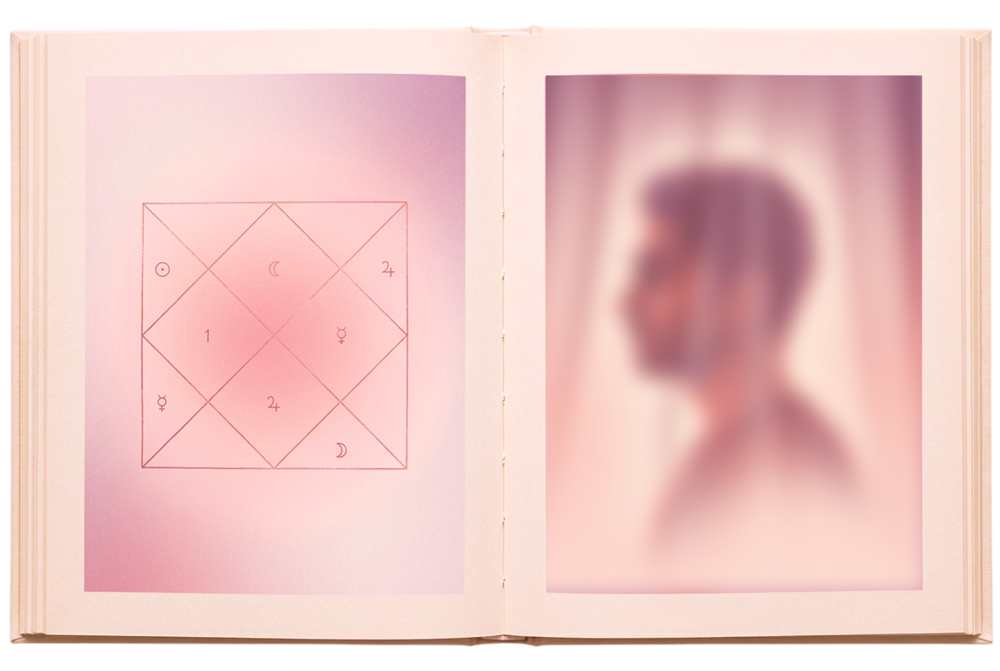
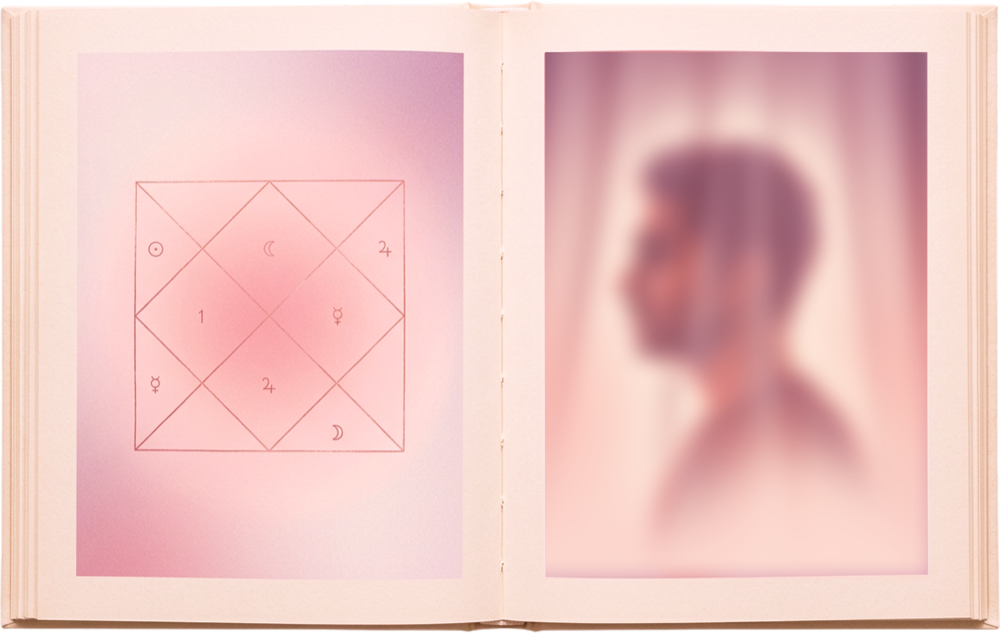
Kundli Milan naming, Figma art for marriage, and a ground under the page block
The marriage report is now Kundli Milan Marriage Compatibility - the name
people search for, and the one its own cover carries. Marriage Report said
nothing the subtitle did not already say.

Art off the Figma boards:
- cover-marriage.jpg   (3466:13910) couple under the mandap
- spread-marriage.png  (3459:22391) the open book
- bg-marriage.jpg      (3457:6843)  the hero still
- spread-partner.png   re-exported with its background keyed out

Marriage takes a painted still for its hero rather than the curtain clip,
which is a couple that is not this report. Heads sit well clear of the book.

The hero is 144px of padding above the book instead of 104. At the shorter
height the couple were packed against it with nothing over their heads and
the arch they stand in had no room to be an arch. The extra 40 is all air,
which is the difference between a crop and a frame.

Two fixes off her screenshots:

The spreads were exported with an opaque white card behind them. Flood
filled from the border and trimmed to the book, so the open book now sits
on the page rather than on a rectangle.

The page block of the shut book had lost its paper. The art is painted onto
the leaf inline, which replaces the gradient in the rule outright, and once
the exports carried transparent margins that left the block with no ground
at all - a pale cut out slab standing beside the cover. Colour is a separate
property, so background-color survives the override and the page stays
[…]

diff --git a/styles.css b/styles.css
@@ -669,6 +669,13 @@ hr.thin{border:0;border-top:1px solid var(--g200);margin:12px 0}
   border-radius:1px 3px 3px 1px;overflow:hidden;
   background:linear-gradient(90deg,var(--pap-lt) 0,var(--pap) 52%,var(--pap-dk) 84%,var(--pap) 100%);
   background-size:200% 100%;background-position:right center;background-repeat:no-repeat;
+  /* Paper under whatever is printed on it. The spread art is painted onto this
+     element inline, which replaces the gradient above outright — and since the
+     exports were keyed down to the book and now carry transparent margins, that
+     left the page block with no ground at all: a pale cut-out slab stood beside
+     the cover instead of this book's own pages. The colour is a separate
+     property, so it survives the override and the page stays opaque. */
+  background-color:var(--pap);
   box-shadow:0 9px 16px -8px rgba(74,24,8,.4)}
 .of3-leaf::after{content:'';position:absolute;right:0;top:0;bottom:0;width:10px;
   background:linear-gradient(90deg,rgba(255,249,252,0),var(--pap-dk))}
@@ -731,15 +738,17 @@ hr.thin{border:0;border-top:1px solid var(--g200);margin:12px 0}
 }
 .of3-pts{margin:14px 6px 0}
 .of3-pts .pts{gap:10px}
-/* Bigger text than the generic list, so a bigger glyph, and brand-coloured
-   rather than grey: on the sell card these four lines are the offer, and the
-   card has no other orange in it above the price. The remainder stays a
-   dotted-underline line of the same text rather than a fifth bullet, so the
-   list ends on an invitation instead of another claim. */
+/* Bigger text than the generic list, so a bigger glyph. The glyph takes the
+   text's own colour and nothing else: orange made four small drawings compete
+   with the Buy Now button for the only warm note on the card, and a line of
+   orange marks down the left edge read as a second column rather than as part
+   of the sentences beside them. The remainder stays a dotted-underline line of
+   the same text rather than a fifth bullet, so the list ends on an invitation
+   instead of another claim. */
 .of3-pts .pts li{font:500 14px/20px var(--sans);color:var(--g700)}
 .of3-pts .pts li > i,
 .of3-pts .pts li > i > svg{width:18px;height:18px}
-.of3-pts .pts li > i{color:var(--brand)}
+.of3-pts .pts li > i{color:currentColor}
 .of3-pts .pts .pts-more{padding-left:0;font-weight:500;color:var(--g700);
   text-decoration:underline;text-decoration-style:dotted;text-underline-offset:3px}
 /* The hairline above the price is in the frame and does real work: it ends the
@@ -813,6 +822,9 @@ hr.thin{border:0;border-top:1px solid var(--g200);margin:12px 0}
   border-radius:1px 3px 3px 1px;overflow:hidden;
   background:linear-gradient(90deg,var(--pap-lt) 0,var(--pap) 58%,var(--pap-dk) 88%,var(--pap) 100%);
   background-size:200% 100%;background-position:right center;background-repeat:no-repeat;
+  /* As on the offer card: the inline art replaces the gradient, so the page
+     needs an opaque ground of its own or the keyed-out margins show through. */
+  background-color:var(--pap);
   box-shadow:0 7px 13px -7px rgba(74,24,8,.38)}
 /* One soft gradient, not ruled hairlines. At this size the stripes never read
    as a block of paper — they read as a glitch across the fore-edge. */
@@ -1097,12 +1109,12 @@ hr.thin{border:0;border-top:1px solid var(--g200);margin:12px 0}
 /* ---------- R.2 Report page ---------- */
 /* The hero photo fades into white, so the card below it has no visible seam. */
 .r2-hero{position:relative;display:flex;flex-direction:column;align-items:center;
-  /* 104, not 59: the new clip is a much squarer frame than the old one, so
-     object-fit has almost no vertical slack left to push the couple up with.
-     The headroom has to come from the book starting lower instead — which is
-     the same requirement either way, that both faces are clear of the boards
-     rather than half behind them. */
-  padding:calc(var(--sbh) + 104px) 12px 28px;
+  /* The book starts this far down, and that is what sets the height of the
+     picture above it. 144 rather than 104: at the shorter height the couple
+     were packed against the book with nothing over their heads, and the arch
+     they are standing in had no room to be an arch. The extra 40px is all
+     air above the faces, which is the difference between a crop and a frame. */
+  padding:calc(var(--sbh) + 144px) 12px 28px;
   border-radius:0 0 24px 24px;overflow:hidden;background:var(--rose)}
 /* The couple behind the curtain, framed so both heads clear the book entirely.
    The source is a 720x1280 portrait clip with its audio track removed from the

diff --git a/index.html b/index.html
@@ -18,7 +18,7 @@
      The manifest deliberately carries NO theme_color: that key, not the
      manifest itself, is what makes iOS 16.4+ paint its own opaque status bar
      and ignore black-translucent. -->
-<link rel="manifest" href="manifest.webmanifest?v=202610261709">
+<link rel="manifest" href="manifest.webmanifest?v=202610261749">
 <!-- PNG, not SVG. iOS ignores an SVG apple-touch-icon and SVG manifest icons
      outright, and an un-iconable manifest is one iOS can decline — dropping the
      app back onto the legacy apple-* path, which is the path that hands it a
@@ -30,8 +30,8 @@
 <link rel="preconnect" href="https://fonts.googleapis.com">
 <link rel="preconnect" href="https://fonts.gstatic.com" crossorigin>
 <link rel="stylesheet" href="https://fonts.googleapis.com/css2?family=Inter:wght@400;500;600;700&family=Cormorant+Infant:wght@600;700&family=Noto+Sans+Devanagari:wght@400;500;600;700&display=swap">
-<link rel="stylesheet" href="styles.css?v=202610261709">
-<link rel="stylesheet" href="mobile.css?v=202610261709">
+<link rel="stylesheet" href="styles.css?v=202610261749">
+<link rel="stylesheet" href="mobile.css?v=202610261749">
 </head>
 <body>
 
@@ -278,7 +278,7 @@
             <!-- Versioned like the stylesheets. The file keeps its name when the
                  clip is recut, so without this an installed home-screen app goes
                  on playing whichever take it cached the day it was added. -->
-            <source src="assets/r2-hero.mp4?v=202610261709" type="video/mp4">
+            <source src="assets/r2-hero.mp4?v=202610261749" type="video/mp4">
           </video>
           <!-- The painted cover, standing closed. The open-book drawing is gone:
                it was a stock illustration of a book, not this report. -->
@@ -915,8 +915,8 @@
 </div><!-- /.phone -->
 </main>
 
-<script src="data.js?v=202610261709"></script>
-<script src="app.js?v=202610261709"></script>
-<script src="mobile.js?v=202610261709"></script>
+<script src="data.js?v=202610261749"></script>
+<script src="app.js?v=202610261749"></script>
+<script src="mobile.js?v=202610261749"></script>
 </body>
 </html>

diff --git a/app.js b/app.js
@@ -111,14 +111,18 @@ var REPORTS = [
     ]
   },
   {
-    id: 'marriage', t: 'Marriage Report', s: 'When it happens, with whom, and how the home feels', pages: 42, rating: '4.8', sold: 96440,
+    // Named for the thing people search for. "Marriage Report" said nothing the
+    // subtitle did not already say; Kundli Milan is the word she would use
+    // herself, and it is what the cover says.
+    id: 'marriage', t: 'Kundli Milan Marriage Compatibility', s: 'When it happens, with whom, and how the home feels', pages: 42, rating: '4.8', sold: 96440,
     why: 'Learn how Mars in your chart is holding the talks back',
     cover: { a: '#E8973C', b: '#8A4A12', ink: '#FFEBD4', motif: 'knot' },
-    // Figma 3258:6840 for the spread, 3330:6840 for the hero ground.
+    // Figma 3466:13910 for the cover, 3459:22391 for the spread, 3330:6840 for
+    // the hero ground.
     art: {
-      closed: 'assets/cover-marriage.jpg?v=3',
-      open: 'assets/spread-marriage.png?v=2',
-      hero: 'assets/bg-marriage.jpg?v=1'
+      closed: 'assets/cover-marriage.jpg?v=4',
+      open: 'assets/spread-marriage.png?v=3',
+      hero: 'assets/bg-marriage.jpg?v=2'
     },
     chips: ['36 guna match', 'Dosha check'],
     revs: [
